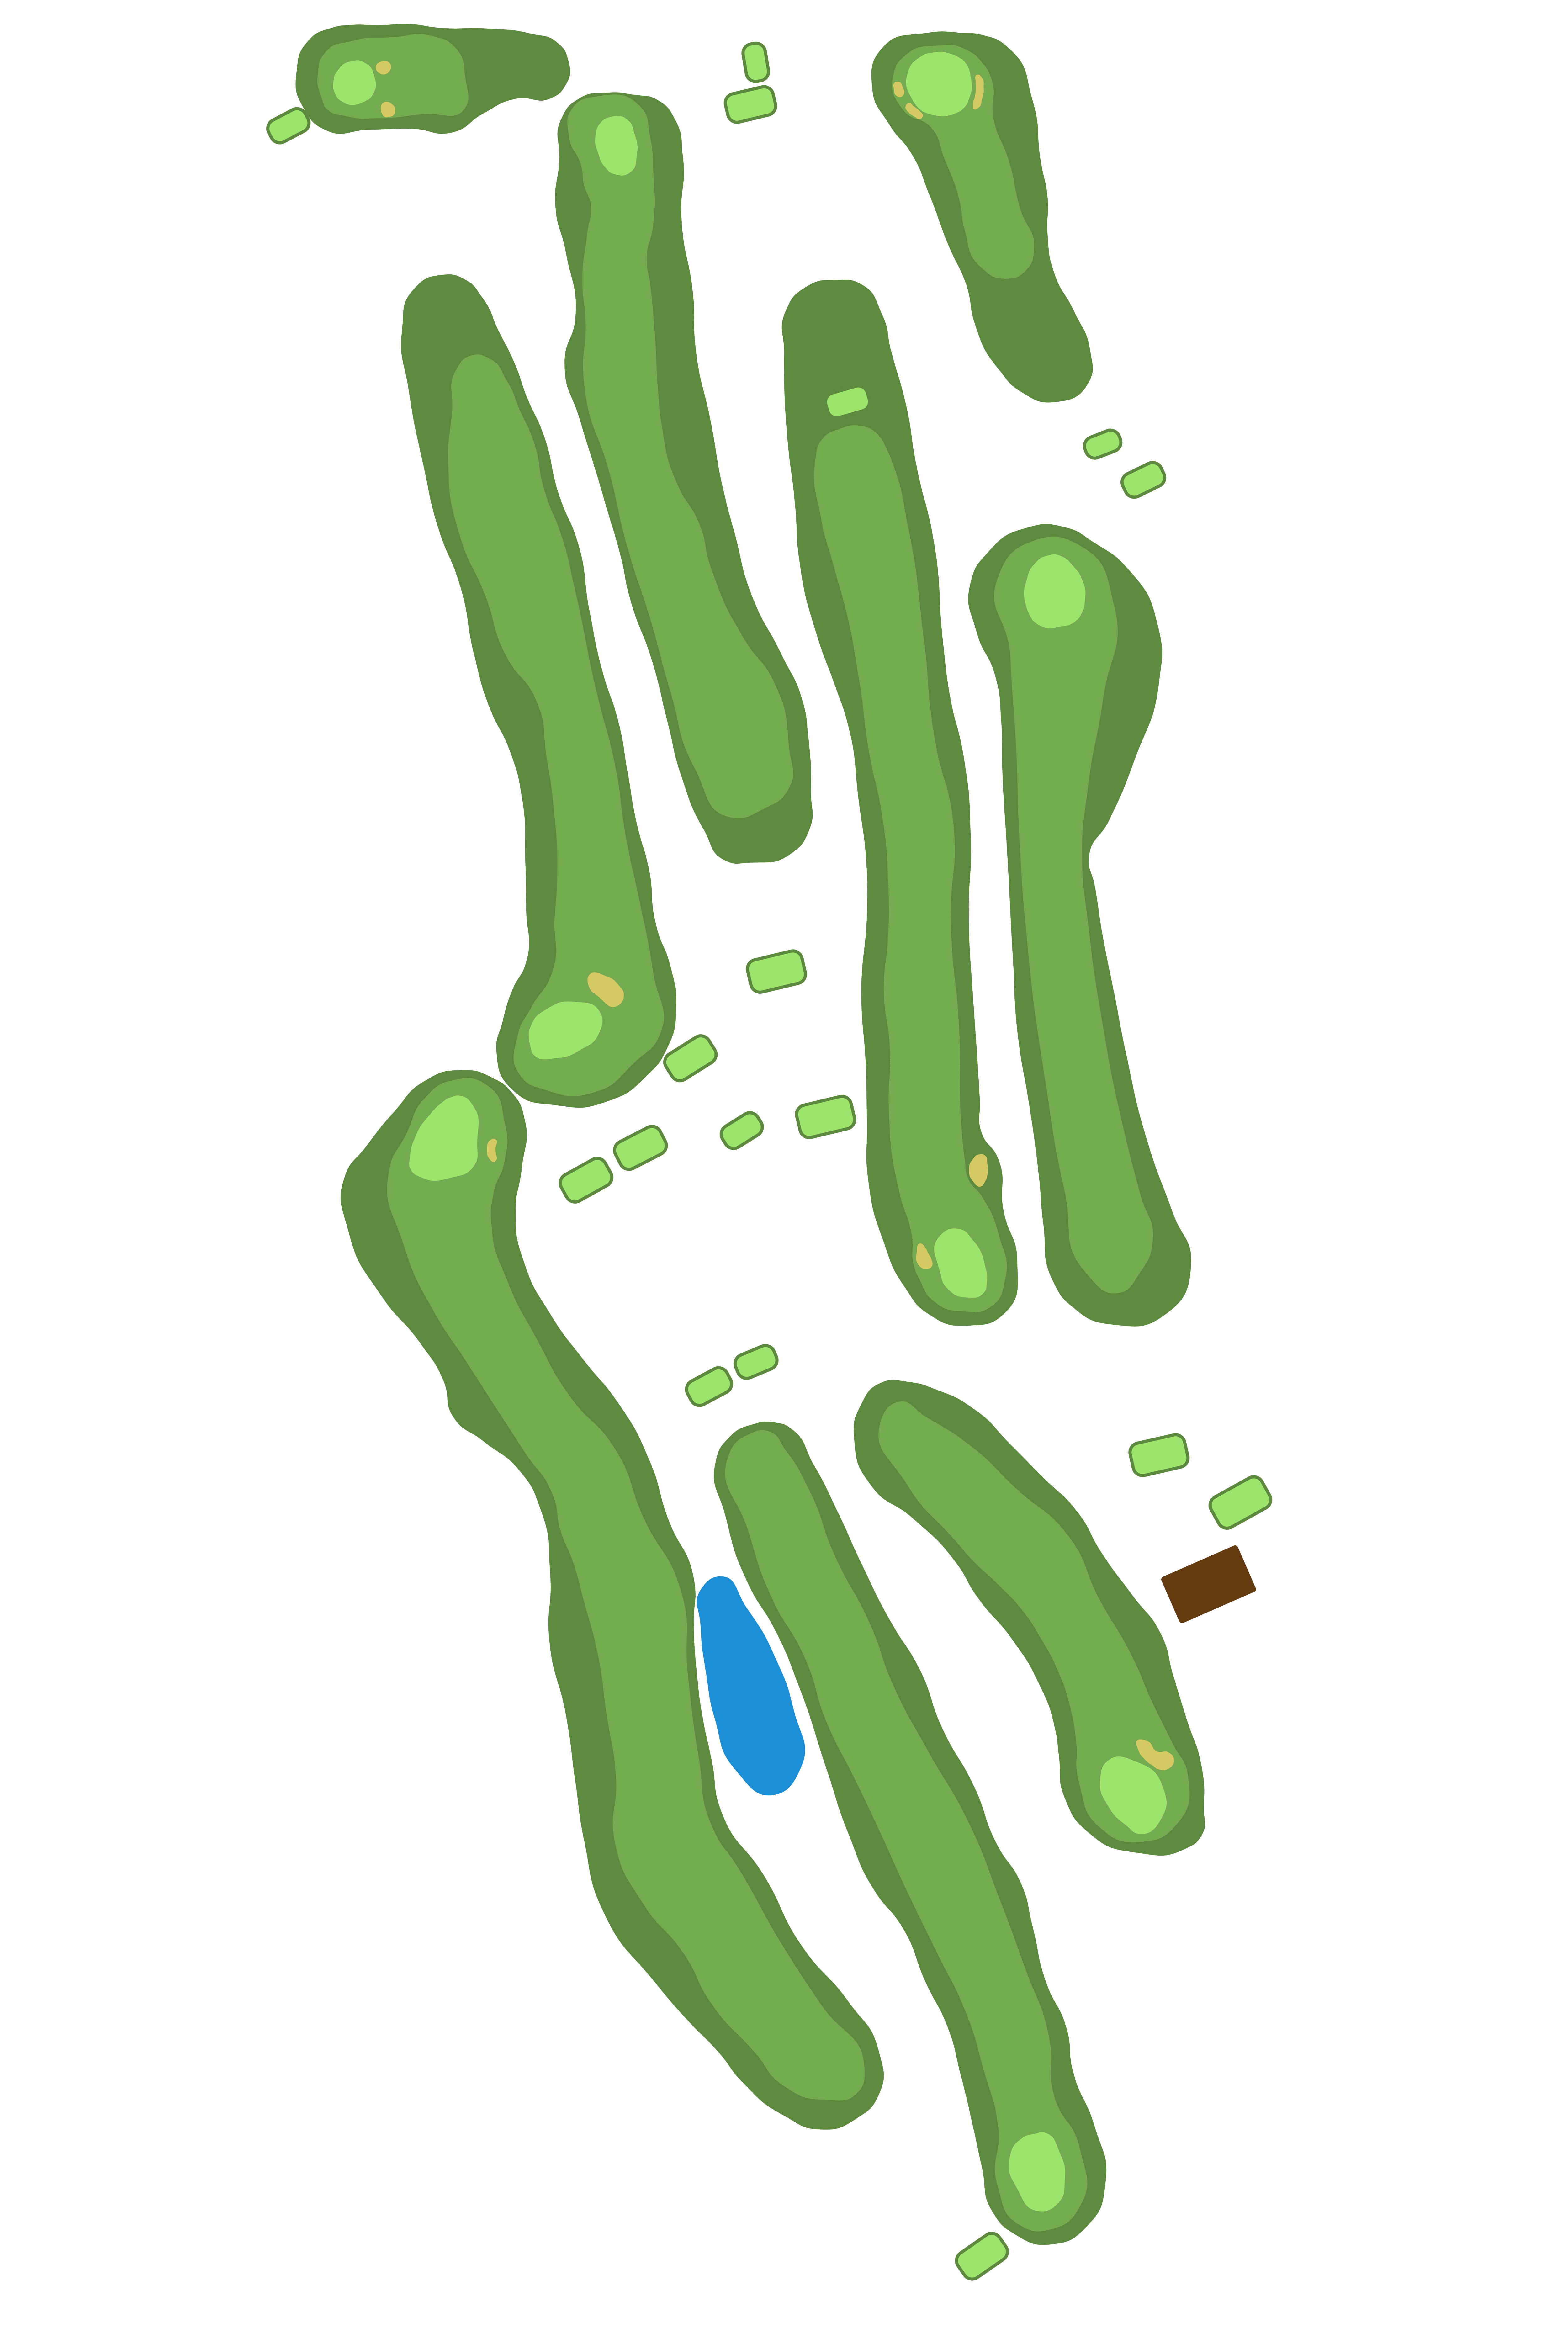
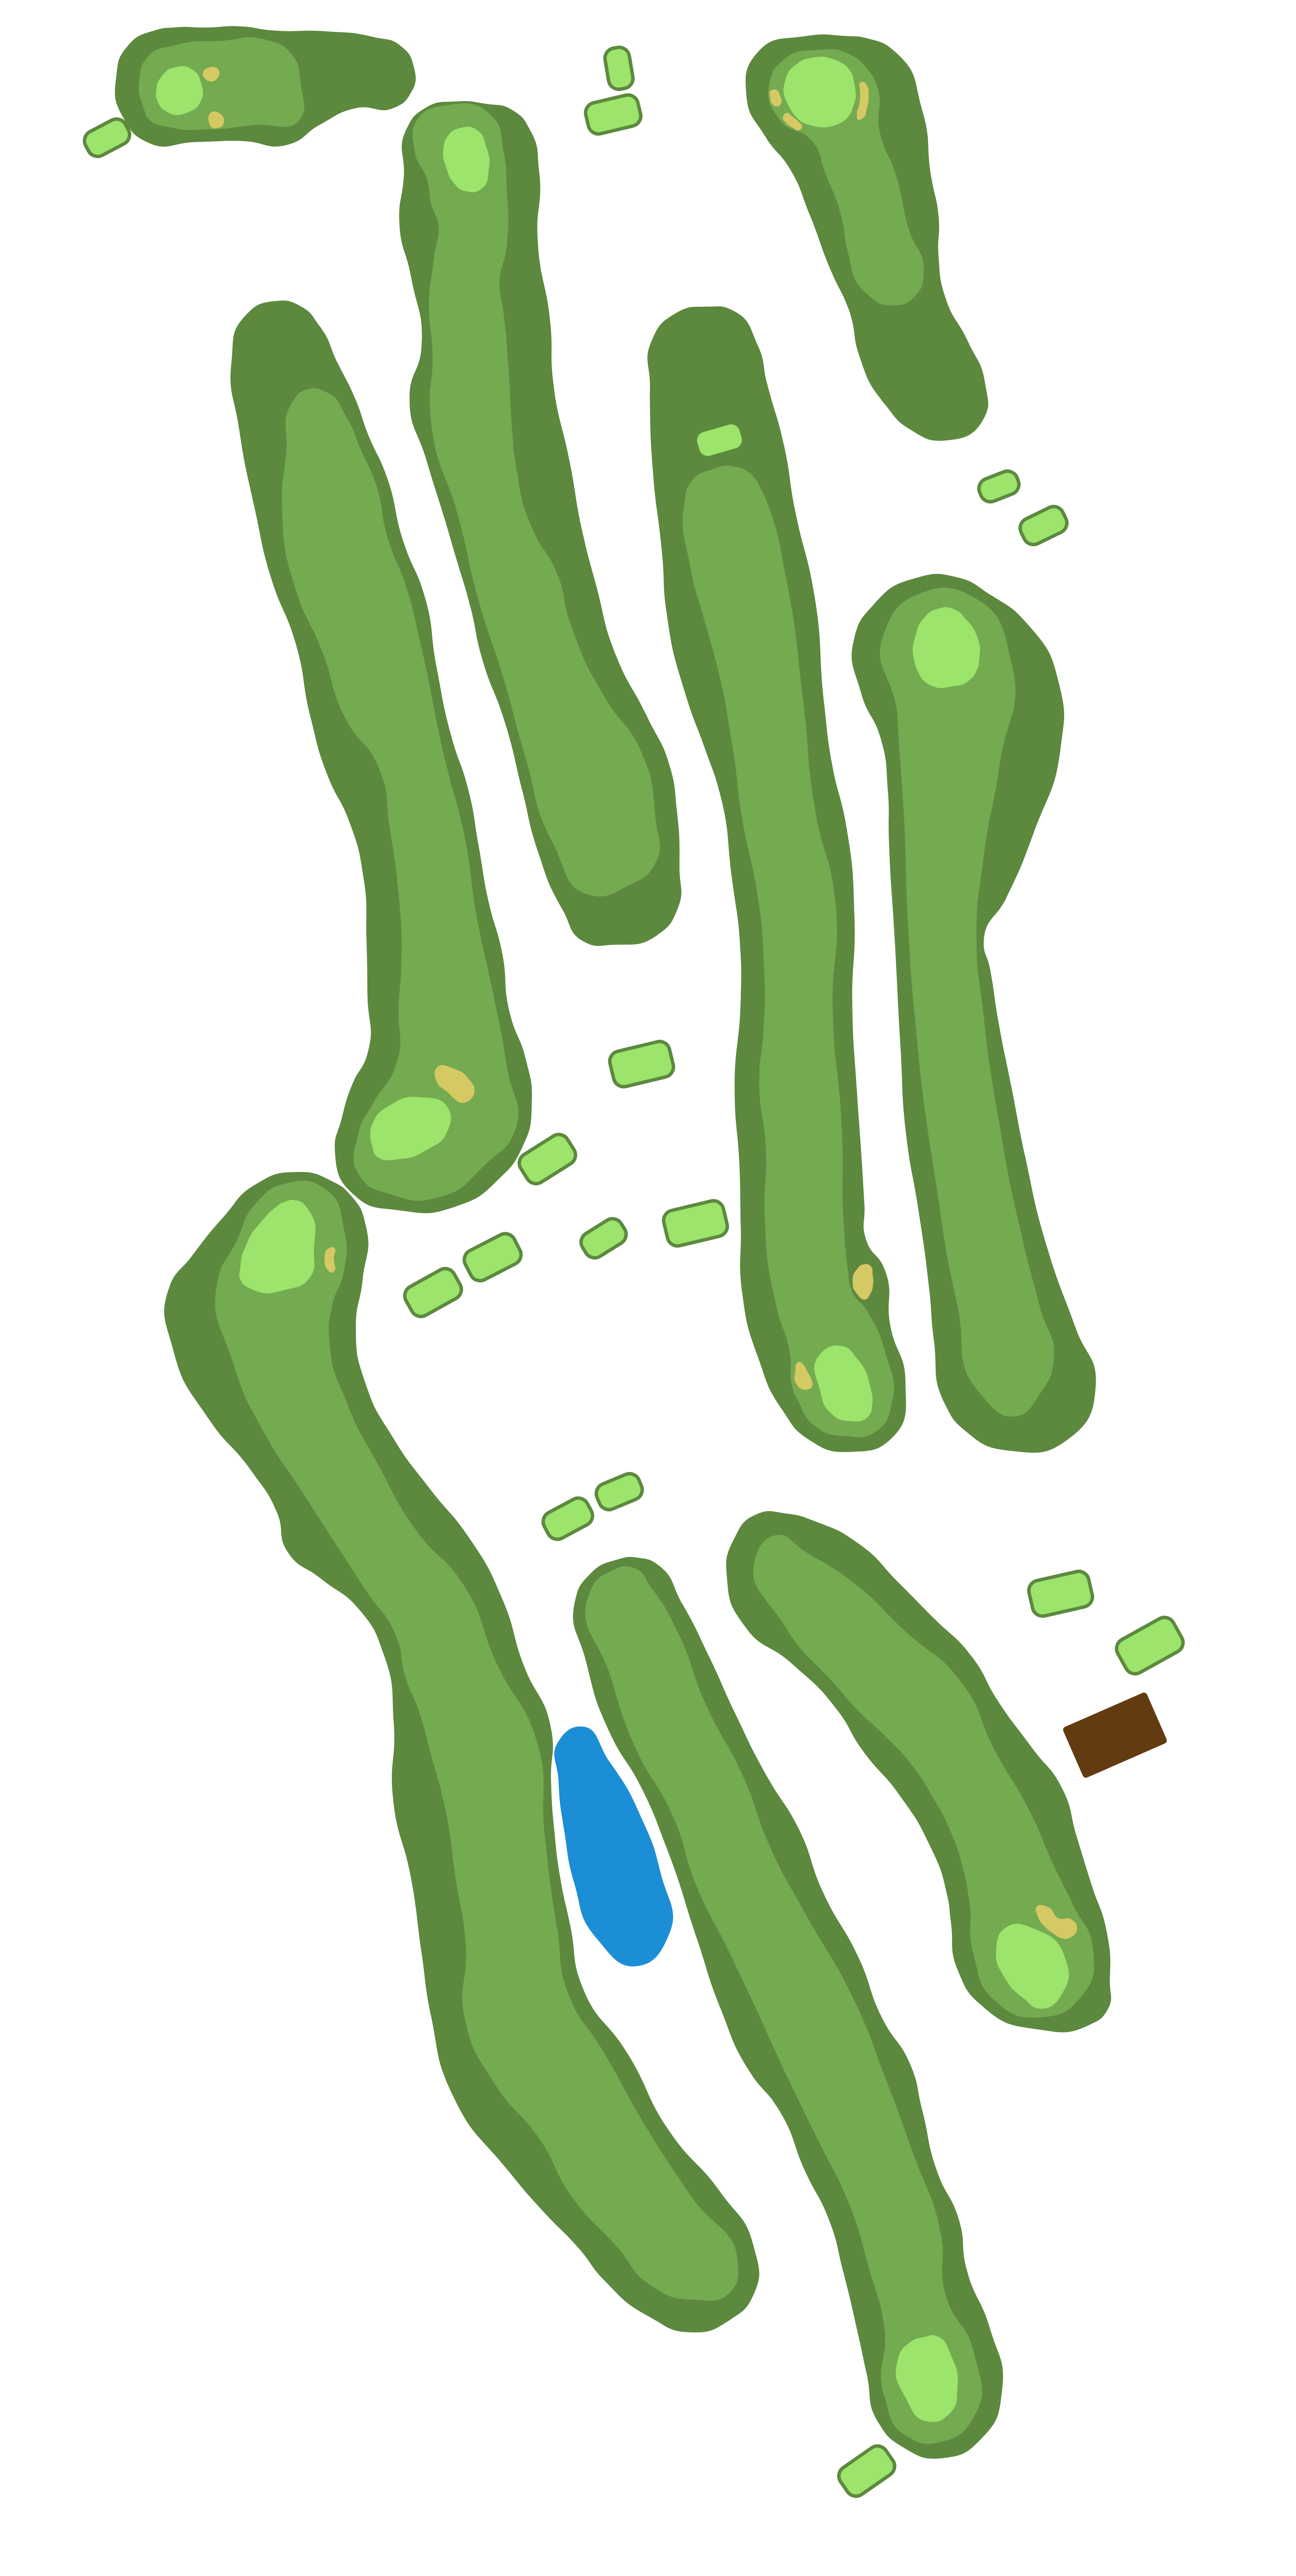
building course page

Changed region(s): [[0.062, 0.0, 0.9303, 0.9672], [0.4962, 0.8112, 0.5272, 0.8424], [0.4651, 0.8736, 0.4962, 0.9048]]

diff --git a/src/index.css b/src/index.css
@@ -22,6 +22,8 @@ body {
   width: auto;
 }
 
+/******************** Slide show **********************/
+
 .slideShowContainer {
   position: relative;
   width: 100%;
@@ -48,6 +50,28 @@ body {
   transform: translate(-50%, -50%);
 }
 
+/******************** Nav Drawer **********************/
+
+.drawerbutton {
+  display: flex;
+  padding-left: 10px;
+  height: 75px;
+  align-items: center;
+}
+
+.menubutton {
+  margin-left: 10px;
+  margin-bottom: 10px;
+}
+
+/******************** Page header **********************/
+
+.pageHeader {
+  position: sticky;
+  top: 0;              /* stick to the very top */
+  z-index: 1000;       /* make sure it stays above content */
+  background: #fff;    /* give it a background so content doesn’t show through */
+}
 
 .headerbar {
   width: 1300px;
@@ -56,7 +80,6 @@ body {
   margin-left: auto;
   margin-right: auto;
   padding-top: 10px;
-  padding-bottom: 110px;
   height: 100px;
 }
 
@@ -64,6 +87,8 @@ body {
   background-color:rgb(50, 141, 233);
   height: 75px;
 }
+
+/******************** Page footer **********************/
 
 .footer {
   background-color:rgb(190, 190, 190);
@@ -93,17 +118,48 @@ body {
   width: 80px;
 }
 
-.drawerbutton {
-  display: flex;
-  padding-left: 10px;
-  height: 75px;
-  align-items: center;
+/******************** Page Title **********************/
+
+.titleContainer {
+  position: relative;
+  width: 100%;
+  min-height: 200px;
+  max-height: 500px;
 }
 
-.menubutton {
-  margin-left: 10px;
-  margin-bottom: 10px;
+.titleImage {
+  min-height: 200px;
+  max-height: 500px;
+  width: 100%;
+  object-fit: cover;
 }
+
+.titleTextContainer {
+  position: absolute;
+  top: 50%;
+  left: 50%;
+  transform: translate(-50%, -50%);
+  color: white;
+  font-family: "Crimson Text", serif;
+  text-align: center;   /* <-- centers inline text inside */
+}
+
+.titleText {
+  font-weight: 400;
+  font-style: normal;
+  font-size: clamp(16px, 4vw + 1rem, 700px);
+}
+
+.titleSubText {
+  font-weight: 400;
+  font-style: normal;
+  font-size: clamp(16px, 2vw + 0.5rem, 200px);
+  margin-top: 0;         /* no extra gap above subtitle */
+  line-height: 0.5;      /* tighter line spacing */
+}
+
+
+/******************** Common **********************/
 
 .accordion {
   width: 1000px;
@@ -125,12 +181,15 @@ body {
 
 .courseMapContainer {
   position: relative; /* Makes the container the reference for absolute positioning */
-  display: inline-block;
+  display: block;
+  max-width: 750px;
+  margin: 0 auto;       /* centers horizontally */
+  padding-top: 10px;
 }
 
 .courseMapContainer img {
   display: block;
-  width: 50%; /* or fixed width if needed */
+  width: 100%; /* or fixed width if needed */
   height: auto;
   margin: 0 auto;
 }

diff --git a/src/pages/Course.tsx b/src/pages/Course.tsx
@@ -1,23 +1,38 @@
 import React from 'react';
 import './../App.css';
-import PageHeader from '../commonComponents/PageHeader';
 import background from './../content/CourseMap.png'
-import { Button, IconButton } from '@chakra-ui/react';
 import HoleButton from '../commonComponents/HoleButton';
+import slide1 from './../content/CourseDroneShot.jpg'
 
 export default function Course() {
   return (
-    <div className="courseMapContainer">
-      <img src={background} className='background'/>
-      <HoleButton top="40%" left="67.5%" transform="translate(-50%, -50%)" label="1"/>
-      <HoleButton top="8%" left="63%" transform="translate(-50%, -50%)" label="2"/>
-      <HoleButton top="35%" left="58.5%" transform="translate(-50%, -50%)" label="3"/>
-      <HoleButton top="20%" left="41%" transform="translate(-50%, -50%)" label="4"/>
-      <HoleButton top="3.4%" left="27%" transform="translate(-50%, -50%)" label="5"/>
-      <HoleButton top="30%" left="36%" transform="translate(-50%, -50%)" label="6"/>
-      <HoleButton top="75%" left="57%" transform="translate(-50%, -50%)" label="7"/>
-      <HoleButton top="65%" left="38%" transform="translate(-50%, -50%)" label="8"/>
-      <HoleButton top="68%" left="67%" transform="translate(-50%, -50%)" label="9"/>
+    <div>
+      <div>    
+        <div className='titleContainer'>
+          <img src={slide1} className='titleImage'/>
+          <div className='titleTextContainer'>
+            <div className='titleText'>
+              COURSE
+            </div>
+            <div className='titleSubText'>
+              9 HOLES - PAR 72
+            </div>
+          </div>
+        </div>
+      </div>
+
+      <div className="courseMapContainer">
+        <img src={background} className='background' />
+        <HoleButton top="40%" left="73%" transform="translate(-50%, -50%)" label="1"/>
+        <HoleButton top="9%" left="67.5%" transform="translate(-50%, -50%)" label="2"/>
+        <HoleButton top="35%" left="61.5%" transform="translate(-50%, -50%)" label="3"/>
+        <HoleButton top="22%" left="39.5%" transform="translate(-50%, -50%)" label="4"/>
+        <HoleButton top="4%" left="22%" transform="translate(-50%, -50%)" label="5"/>
+        <HoleButton top="31%" left="32%" transform="translate(-50%, -50%)" label="6"/>
+        <HoleButton top="75%" left="59%" transform="translate(-50%, -50%)" label="7"/>
+        <HoleButton top="65%" left="35%" transform="translate(-50%, -50%)" label="8" />
+        <HoleButton top="68%" left="73%" transform="translate(-50%, -50%)" label="9"/>
+      </div>
     </div>
   );
 }

diff --git a/src/commonComponents/Main.tsx b/src/commonComponents/Main.tsx
@@ -8,7 +8,6 @@ import PageHeader from './PageHeader';
 import PageFooter from './PageFooter';
 
 export default function Main() {
-
   const [page, setPage] = React.useState('home')
   const pages: { [id: string] : JSX.Element } = {
       "home": <Home/>,
@@ -17,31 +16,15 @@ export default function Main() {
       "contact": <Contact/>
   }
 
-  const [dimensions, setDimensions] = React.useState({ 
-    height: window.innerHeight,
-    width: window.innerWidth
-  })
-  
-  React.useEffect(() => {
-    function handleResize() {
-      setDimensions({
-        height: window.innerHeight,
-        width: window.innerWidth
-      })
-    }
-    window.addEventListener('resize', handleResize);
-    return () => {
-      window.removeEventListener("resize", handleResize);
-    };
-  })
-
   return (
     <div>
-      <PageHeader page={page} setPage={setPage} dimensions={dimensions} />
+      <div className='pageHeader'>
+        <PageHeader page={page} setPage={setPage} />
+      </div>
       <div className='content'>
           {pages[page]}
       </div>
-      <PageFooter dimensions={dimensions}/>
+      <PageFooter/>
     </div>
   );
 }

diff --git a/src/commonComponents/UseWindowSize.tsx b/src/commonComponents/UseWindowSize.tsx
@@ -1,0 +1,18 @@
+import { useState, useEffect } from "react";
+
+export default function UseWindowSize() {
+  const [size, setSize] = useState({
+    width: window.innerWidth,
+    height: window.innerHeight,
+  });
+
+  useEffect(() => {
+    const handleResize = () =>
+      setSize({ width: window.innerWidth, height: window.innerHeight });
+
+    window.addEventListener("resize", handleResize);
+    return () => window.removeEventListener("resize", handleResize);
+  }, []);
+
+  return size;
+}

diff --git a/src/commonComponents/PageFooter.tsx b/src/commonComponents/PageFooter.tsx
@@ -6,20 +6,17 @@ import { Center, AbsoluteCenter, Grid, GridItem } from '@chakra-ui/react';
 import { PhoneIcon, StarIcon } from '@chakra-ui/icons'
 import { Link } from '@chakra-ui/react';
 import { MobileWidth } from './Globals';
+import UseWindowSize from './UseWindowSize';
 
-interface PageFooterProps {
-  dimensions: {
-    height: number;
-    width: number;
-  };
-}
 
-export default function PageFooter(pageFooterProps: PageFooterProps) {
+export default function PageFooter() {
 
     const googleMapUrl = 'https://www.google.com/maps/place/Mayfield+Golf+Club/@-43.8140236,171.4369777,15.5z/data=!4m14!1m7!3m6!1s0x6d2dbbc14e738f99:0x6637d3aaee9bc6a!2sMayfield+Golf+Club!8m2!3d-43.8162247!4d171.440136!16s%2Fg%2F1tdyftvc!3m5!1s0x6d2dbbc14e738f99:0x6637d3aaee9bc6a!8m2!3d-43.8162247!4d171.440136!16s%2Fg%2F1tdyftvc?entry=ttu&g_ep=EgoyMDI0MTIxMS4wIKXMDSoASAFQAw%3D%3D';
     const emailAddress = '[email redacted]';
 
-    if (pageFooterProps.dimensions.width > MobileWidth)
+    const { width } = UseWindowSize();
+
+    if (width > MobileWidth)
     {
       return (
           <div className='footer'>

diff --git a/src/commonComponents/PageHeader.tsx b/src/commonComponents/PageHeader.tsx
@@ -6,18 +6,17 @@ import logo from './../content/MayfieldGolfClubLogo.png';
 import logoWhite from './../content/MayfieldGolfClubLogoWhite.png';
 import { Center, Grid, GridItem } from '@chakra-ui/react';
 import { TabletWidth } from './Globals';
+import UseWindowSize from './UseWindowSize';
 
 interface PageHeaderProps {
   page: string;
   setPage: (page: string) => void;
-  dimensions: {
-    height: number;
-    width: number;
-  };
 }
 
 export default function PageHeader(pageHeaderProps: PageHeaderProps) {
-  if (pageHeaderProps.dimensions.width > TabletWidth)
+  const { width } = UseWindowSize();
+
+  if (width > TabletWidth)
   {
     return (
         <Grid templateColumns='repeat(5, 1fr)' gap={6} className='headerbar'>

diff --git a/src/commonComponents/HoleButton.tsx b/src/commonComponents/HoleButton.tsx
@@ -1,4 +1,6 @@
 import { Button } from "@chakra-ui/react";
+import UseWindowSize from './UseWindowSize';
+import { TabletWidth } from './Globals';
 
 const HoleButton = ({
   top = "30%",
@@ -7,10 +9,14 @@ const HoleButton = ({
   label = "Click Me",
   onClick = () => {},
 }) => {
+  
+  const { width } = UseWindowSize();
+
   return (
     <Button
       colorScheme="blue"
       rounded="full"
+      size={width <= TabletWidth ? "xs" : "sm"}
       sx={{
         position: "absolute",
         top,

diff --git a/public/index.html b/public/index.html
@@ -24,6 +24,10 @@
       work correctly both with client-side routing and a non-root public URL.
       Learn how to configure a non-root public URL by running `npm run build`.
     -->
+    <link rel="preconnect" href="https://fonts.googleapis.com">
+    <link rel="preconnect" href="https://fonts.gstatic.com" crossorigin>
+    <link href="https://fonts.googleapis.com/css2?family=Crimson+Text:ital,wght@0,400;0,600;0,700;1,400;1,600;1,700&family=DM+Serif+Text:ital@0;1&family=Encode+Sans+Condensed:wght@100;200;300;400;500;600;700;800;900&display=swap" rel="stylesheet">
+
     <title>React App</title>
   </head>
   <body>